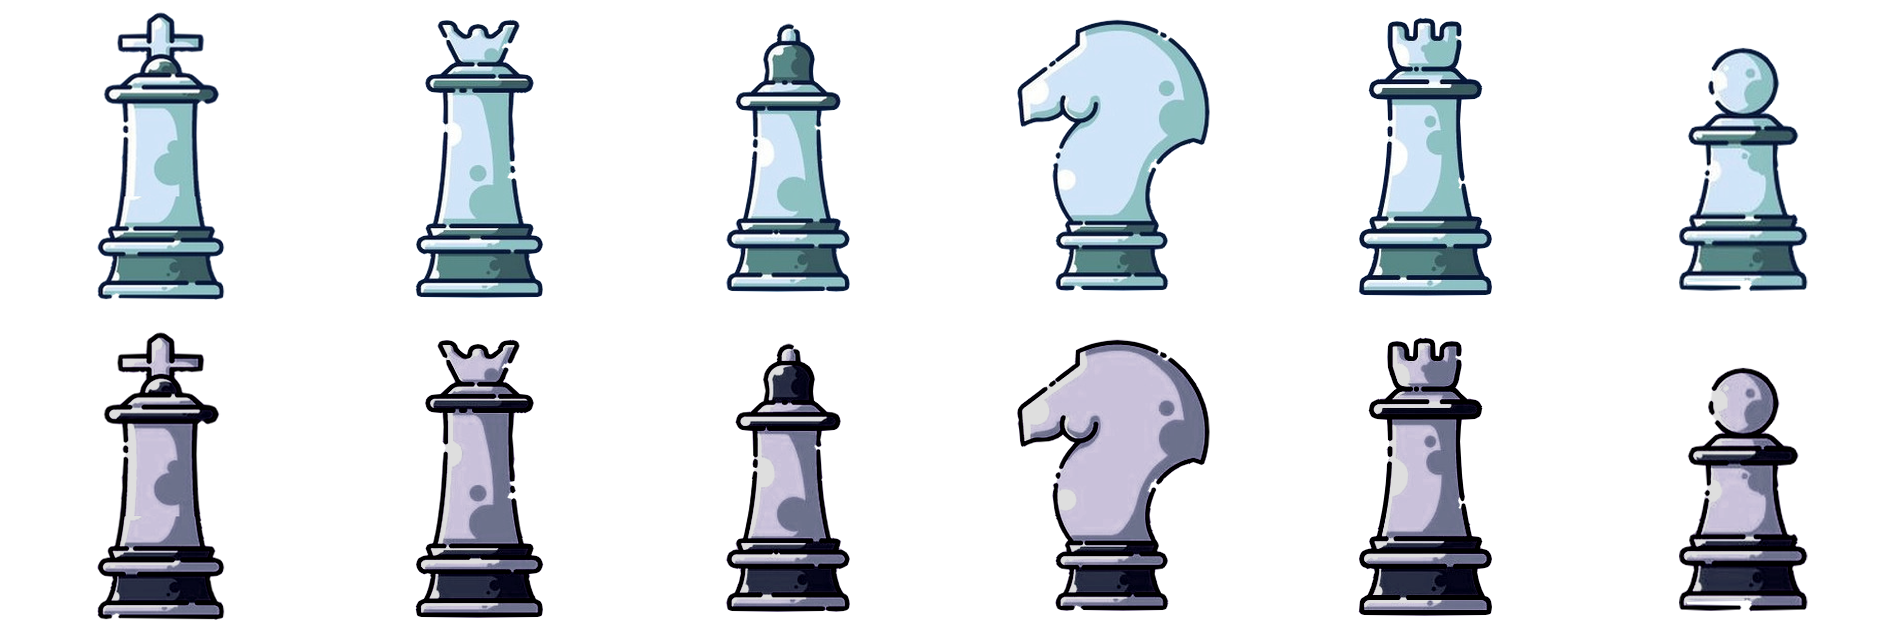
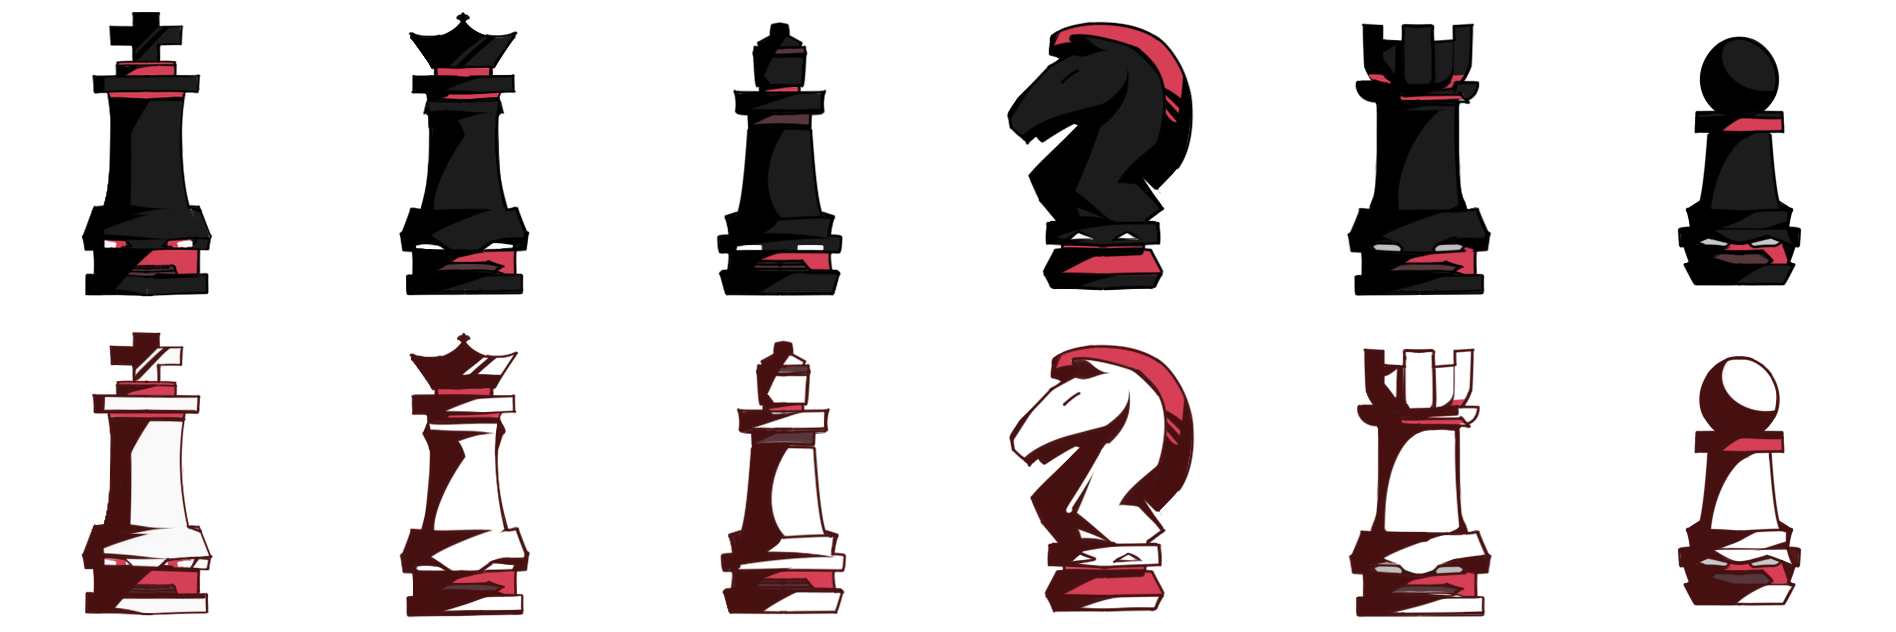
style: textures update

diff --git a/chess_board.py b/chess_board.py
@@ -3,13 +3,15 @@ import pprint
 from raylib.enums import MouseButton
 from player import get_current_player
 
-UNITS = 120  # temp units for the scaling of the board
-BORDER = 50
+UNITS = 124  # temp units for the scaling of the board
+BORDER = 46
 # these are custum colours cause why not
 CREAM = Color(255, 253, 208, 255)
 VI = Color(197, 27, 89, 255)
 CAIT = Color(30, 50, 60, 255)
 WOOD = Color(139, 69, 19, 255)
+
+board_texture = None
 
 
 class ChessBoard:
@@ -44,12 +46,7 @@ class ChessBoard:
         pprint.pprint(self.state)
 
     def draw_board(self):
-        for w in range(8):
-            for b in range(8):
-                x = b * UNITS
-                y = w * UNITS
-                color = BLUE if (w + b) % 2 else CREAM
-                draw_rectangle(x + BORDER, y + BORDER, UNITS, UNITS, color)
+        draw_texture(board_texture, 0, 0, WHITE)
 
     def draw_positions(self):
         for i in range(8):
@@ -61,6 +58,11 @@ class ChessBoard:
         for i in range(8):
             for j in range(8):
                 self.state[(i, j)] = None
+
+
+def initializeBoardTexture(board):
+    global board_texture
+    board_texture = load_texture("assets/board_full.png")
 
 
 def get_selected_piece(board):

diff --git a/main.py b/main.py
@@ -1,6 +1,6 @@
 from pyray import *
-from chess_board import ChessBoard, get_selected_piece
-from chess_pieces import initializePieces, initializeTextures, drawPieces, update_all_piece_moves, is_checkmate, is_stalemate
+from chess_board import ChessBoard, get_selected_piece, initializeBoardTexture
+from chess_pieces import initializePieces, initializePieceTextures, drawPieces, update_all_piece_moves, is_checkmate, is_stalemate
 from player import initializePlayers
 
 SCREEN_W = 1920
@@ -10,13 +10,15 @@ SCREEN_H = 1080
 class Game:
 
     def initialize(self):
-        set_config_flags(ConfigFlags.FLAG_WINDOW_UNDECORATED)
+        set_config_flags(ConfigFlags.FLAG_WINDOW_UNDECORATED |
+                         ConfigFlags.FLAG_MSAA_4X_HINT)
         init_window(SCREEN_W, SCREEN_H, 'pyShatranj')
         # set_target_fps(60)
 
         initializePlayers(board)
         initializePieces(board)
-        initializeTextures(board)
+        initializePieceTextures(board)
+        initializeBoardTexture(board)
 
         if is_window_ready():
             return True

diff --git a/chess_pieces.py b/chess_pieces.py
@@ -315,20 +315,20 @@ def offset(n):
 
 
 def initializePieces(board):
-    # initial_board(board)
+    initial_board(board)
     # straight_line_attack(board)
     # stalemate_test(board)
-    castling_test_case(board)
+    # castling_test_case(board)
 
 
-def initializeTextures(board):
+def initializePieceTextures(board):
     global piece_texture
     piece_texture = load_texture("assets/pieces.png")
 
 
 def get_texture_rec(type, color):
     offs = 0
-    if color == 'black':
+    if color == 'white':
         offs = 1
     if isinstance(type, Pawn):
         idx = 5
